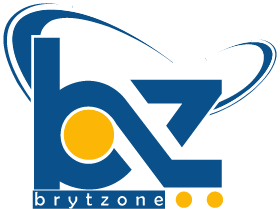
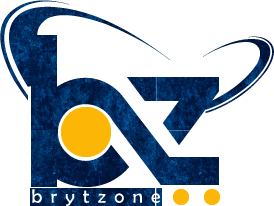
Fixed errors

diff --git a/src/app/[locale]/signup/progress.tsx b/src/app/[locale]/signup/progress.tsx
@@ -53,21 +53,20 @@ const Progress: React.FC<Progressprops> = ({ step, completed }) => {
           </linearGradient>
         </defs>
         <motion.g id="g1">
+        <motion.circle className="placeholder" key={nanoid()} cx="100" cy="100" r="90" fill="none" stroke="#FBB606" strokeWidth="12" transform="scale(-1,-1) translate(-200,-200)" />
+
           <motion.circle initial={init} animate={mainAnim} cx="100" cy="100" r="90" fill="none" stroke="#FBB606" strokeWidth="12" transform="scale(-1,-1) translate(-200,-200)" />
           <AnimatePresence>
             {step >= 2 && <motion.path initial={init} exit={check.exit} animate={check.animate} d="M50,100 L85,135 L150,70" stroke="#FBB606" strokeWidth="18" fill="none" />}
           </AnimatePresence>
         </motion.g>
-        <motion.line className="placeholder" id="l1" initial={init} exit={line.exit} animate={line.animate} x1="190" y1="100" x2="910" y2="100" stroke="url(#skyGradient)" strokeWidth="12" />
+        <motion.line className="placeholder" id="l1"  x1="190" y1="100" x2="910" y2="100" stroke="url(#skyGradient)" strokeWidth="12" />
 
         <AnimatePresence>
           {step >= 2 && <motion.line id="l1" initial={init} exit={line.exit} animate={line.animate} x1="190" y1="100" x2="910" y2="100" stroke="url(#skyGradient)" strokeWidth="12" />}
         </AnimatePresence>
         <motion.g id="g2">
           <motion.circle
-            initial={init}
-            exit={circle.exit}
-            animate={circle.animate}
             cx="490"
             cy="100"
             r="90"
@@ -76,6 +75,7 @@ const Progress: React.FC<Progressprops> = ({ step, completed }) => {
             className="placeholder"
             strokeWidth="12"
             transform="scale(-1,-1) translate(-985,-200)"
+            key={nanoid()}
           />
           <AnimatePresence>
             {step >= 2 && (
@@ -83,6 +83,7 @@ const Progress: React.FC<Progressprops> = ({ step, completed }) => {
                 initial={init}
                 exit={circle.exit}
                 animate={circle.animate}
+                key={nanoid()}
                 cx="490"
                 cy="100"
                 r="90"
@@ -95,7 +96,7 @@ const Progress: React.FC<Progressprops> = ({ step, completed }) => {
             {step === 3 && <motion.path d="M450,100 L485,135 L550,70" stroke="#FBB606" initial={init} exit={check.exit} animate={check.animate} strokeWidth="18" fill="none" />}
           </AnimatePresence>
         </motion.g>
-        <motion.line className="placeholder" id="l2" x1="590" y1="100" x2="1310" initial={init} exit={line.exit} animate={line.animate} y2="100" stroke="#FBB606" strokeWidth="12" />
+        <motion.line className="placeholder" id="l2" x1="590" y1="100" x2="1310"  y2="100" stroke="#FBB606" strokeWidth="12" />
 
         <AnimatePresence>
           {step >= 3 && <motion.line id="l2" x1="590" y1="100" x2="1310" initial={init} exit={line.exit} animate={line.animate} y2="100" stroke="#FBB606" strokeWidth="12" />}
@@ -108,10 +109,7 @@ const Progress: React.FC<Progressprops> = ({ step, completed }) => {
             fill="none"
             stroke="#FBB606"
             className="placeholder"
-            initial={init}
-            exit={circle.exit}
-            animate={circle.animate}
-            strokeWidth="12"
+                  strokeWidth="12"
             transform="scale(-1,-1) translate(-1790, -200)"
             key={nanoid()}
           />
@@ -133,7 +131,7 @@ const Progress: React.FC<Progressprops> = ({ step, completed }) => {
             )}
             {completed && (
               <motion.path
-              id='last'
+                id="last"
                 initial={init}
                 exit={{ pathLength: 0, transition: { duration: 0.5, ease: "easeInOut" } }}
                 animate={{ pathLength: 1, transition: { duration: 0.5, ease: "easeInOut" } }}

diff --git a/src/app/[locale]/signup/page.tsx b/src/app/[locale]/signup/page.tsx
@@ -18,8 +18,9 @@ import Mosaic from "./mosaic";
 import Navigator from "./navigator";
 import { useForm, Controller } from "react-hook-form";
 import LevelComponent from "./level";
+import { nanoid } from "nanoid";
 
-const Login = () => {
+const SignUp = () => {
   const router = useRouter();
   const [matricle, setMatricle] = useState("");
   const [password, setPassword] = useState("");
@@ -81,7 +82,7 @@ const Login = () => {
             <form>
               <motion.div layout className="container">
                 <AnimatePresence>
-                  <SubContainer isVisible={step === 1}>
+                  <SubContainer isVisible={step === 1} key={nanoid()} >
                     <Controller
                       control={control}
                       name="name"
@@ -99,7 +100,7 @@ const Login = () => {
                     {/* <AreaOfInterestSelector/> */}
                   </SubContainer>
 
-                  <SubContainer isVisible={step === 2}>
+                  <SubContainer isVisible={step === 2} key={nanoid()} >
                     <Controller
                       control={control}
                       name="matricule"
@@ -111,7 +112,7 @@ const Login = () => {
                       render={({ field: { onChange, onBlur, value, ref } }) => <PasswordInput onBlur={onBlur} label="password" placeholder="password" value={value} onChange={onChange} />}
                     />
                   </SubContainer>
-                  <SubContainer isVisible={step === 3}>
+                  <SubContainer isVisible={step === 3} key={nanoid()} >
                     <NormalInput label="matricule2" name="matricle" value={matricle} onChange={handleMatricle} />
                     <PasswordInput label="password2" forgot placeholder="password" name="password" value={password} onChange={handlePassword} />
                     <Filer />
@@ -144,7 +145,7 @@ const Login = () => {
   );
 };
 
-export default Login;
+export default SignUp;
 
 const SubContainer = ({ isVisible, children }: { isVisible: boolean; children: any }) => {
   const circle = {
@@ -161,7 +162,7 @@ const SubContainer = ({ isVisible, children }: { isVisible: boolean; children: a
   return (
     <>
       {isVisible && (
-        <motion.div initial={init} exit={circle.exit} animate={circle.animate} layout className="sub-container">
+        <motion.div  initial={init} exit={circle.exit} animate={circle.animate} layout className="sub-container">
           {children}
         </motion.div>
       )}

diff --git a/src/stories/layout/navbar/SpecialNav.tsx b/src/stories/layout/navbar/SpecialNav.tsx
@@ -8,7 +8,8 @@ const SpecialNav = () => {
 
   return (
     <nav className={`${brytzone}_special_nav`}>
-        <Image width={84} height={63} src={'/assets/images/icon.png'} alt="brytzone-logo" onClick={() => router.push("/")} />
+        <Image quality={100} width={96} height={72} src={'/assets/images/icon.png'} alt="brytzone-logo" onClick={() => router.push("/")} />
+        {/* <Image quality={100} width={84} height={63} src={'/assets/images/icon.png'} alt="brytzone-logo" onClick={() => router.push("/")} /> */}
   </nav>
   )
 }

diff --git a/src/styles/components/_special-nav.scss b/src/styles/components/_special-nav.scss
@@ -2,7 +2,7 @@
 @use "../utils/variables" as *;
 nav.brytzone_special_nav {
   // display: none;
-  max-height: 30rem;
+  // max-height: 30rem;
   height: 10rem;
   justify-self: flex-start;
   align-self: flex-start;
@@ -10,6 +10,7 @@ nav.brytzone_special_nav {
   padding-inline: 6rem;
   justify-content: flex-start;
   background-color: transparent;
+  transform: translate(10px, 10px);
   img {
     transform: scale(1);
   }

diff --git a/src/styles/pages/signup/_index.scss b/src/styles/pages/signup/_index.scss
@@ -155,6 +155,7 @@
                     &__control {
                       outline: none !important;
                       box-shadow: none;
+                      background: #eff0f2;
                       border-color: transparent;
                       @include size(45rem, 5.3rem);
                       .react-select__value-container {
